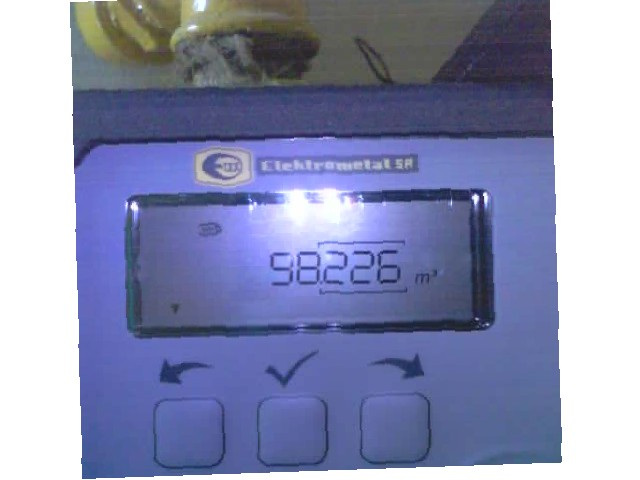
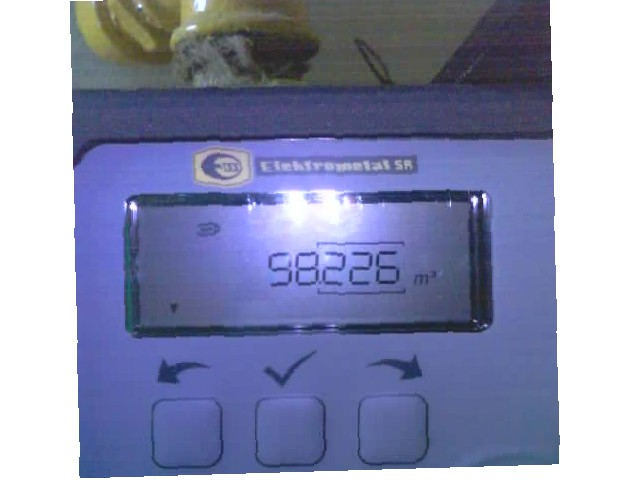
Automatyczna aktualizacja strony i danych

diff --git a/index.html b/index.html
@@ -35,11 +35,11 @@
 <body>
     <div class="container">
         <h1>Bieżący Stan Licznika</h1>
-        <div class="status">Ostatnia aktualizacja danych:<br><span class="timestamp">2026-10-27 14:53:44</span></div>
+        <div class="status">Ostatnia aktualizacja danych:<br><span class="timestamp">2026-10-27 14:59:11</span></div>
         <div class="odczyt">93498 m³</div>
         <div class="uwaga">Ostatni odczyt się nie powiódł, wyświetlana jest poprzednia poprawna wartość.</div>
         <h3>Aktualne zdjęcie z gazomierza:</h3>
-        <img src="img_tmp/alg.jpg?t=1793109224" alt="Zdjęcie licznika">
+        <img src="img_tmp/alg.jpg?t=1793109551" alt="Zdjęcie licznika">
     </div>
 </body>
 </html>
